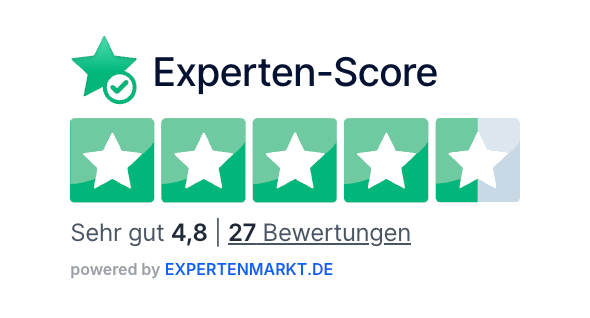
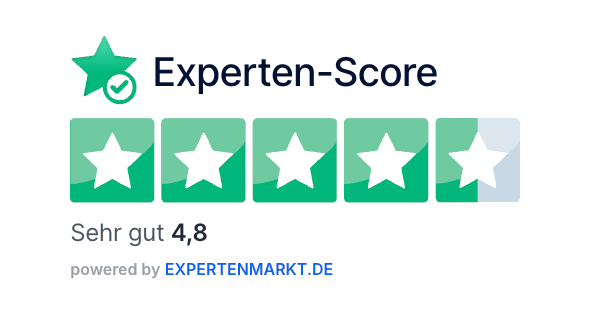
fix(startseite): Bewertungsanzahl aus Experten-Score entfernt
- "| 27 Bewertungen" aus dem Score-Bild entfernt (transparent radiert),
  "Sehr gut 4,8" und "powered by EXPERTENMARKT.DE" bleiben
- Alt-/Aria-Text entsprechend angepasst

Changed region(s): [[0.3661, 0.6792, 0.7017, 0.7925]]

diff --git a/index.html b/index.html
@@ -124,8 +124,8 @@
               <div class="badge-sub" style="font-size:15.5px; color:#035B2F; margin-top:3px; line-height:1.25; overflow-wrap:anywhere;">Zimmermeister &amp;<br />Energieeffizienzexperte</div>
             </div>
           </div>
-          <a id="score-static" href="https://expertenmarkt.de/experte/effinova-gmbh-berlin" target="_blank" rel="noopener" aria-label="Experten-Score: 4,8 von 5 aus 27 Bewertungen auf Expertenmarkt.de ansehen" style="flex:none; line-height:0;">
-            <img id="score-img" src="bilder/startseite/experten-score.png" alt="Experten-Score: 4,8 von 5 aus 27 Bewertungen auf Expertenmarkt.de" style="display:block; height:92px; width:auto;" />
+          <a id="score-static" href="https://expertenmarkt.de/experte/effinova-gmbh-berlin" target="_blank" rel="noopener" aria-label="Experten-Score: 4,8 von 5 auf Expertenmarkt.de ansehen" style="flex:none; line-height:0;">
+            <img id="score-img" src="bilder/startseite/experten-score.png" alt="Experten-Score: 4,8 von 5 auf Expertenmarkt.de" style="display:block; height:92px; width:auto;" />
           </a>
         </div>
         </div>